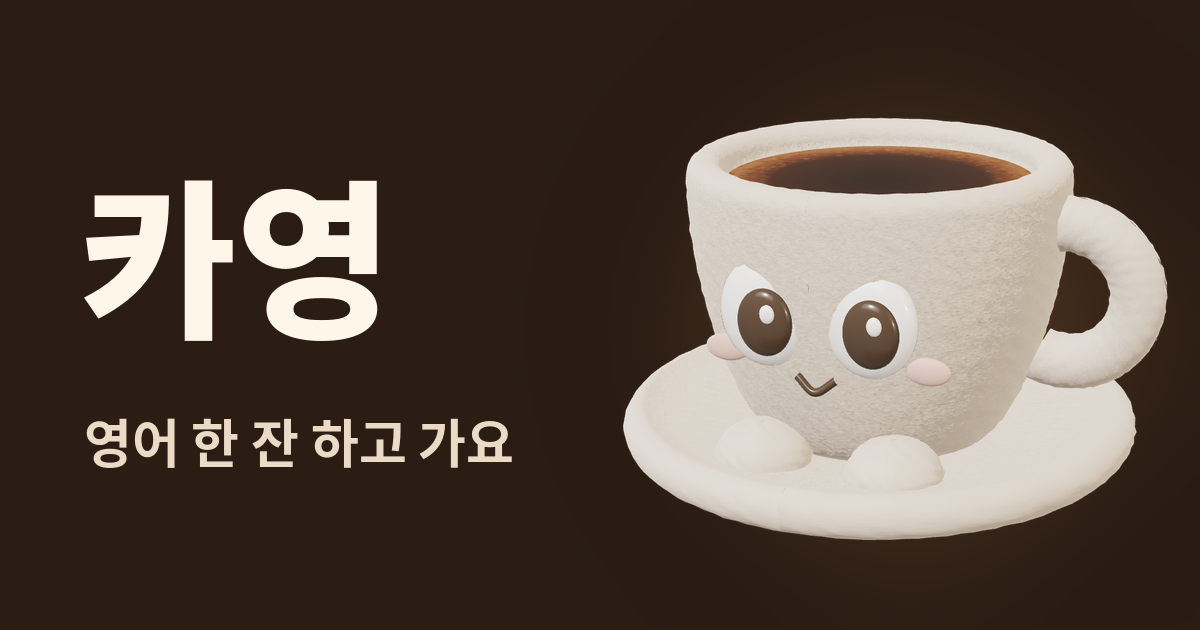
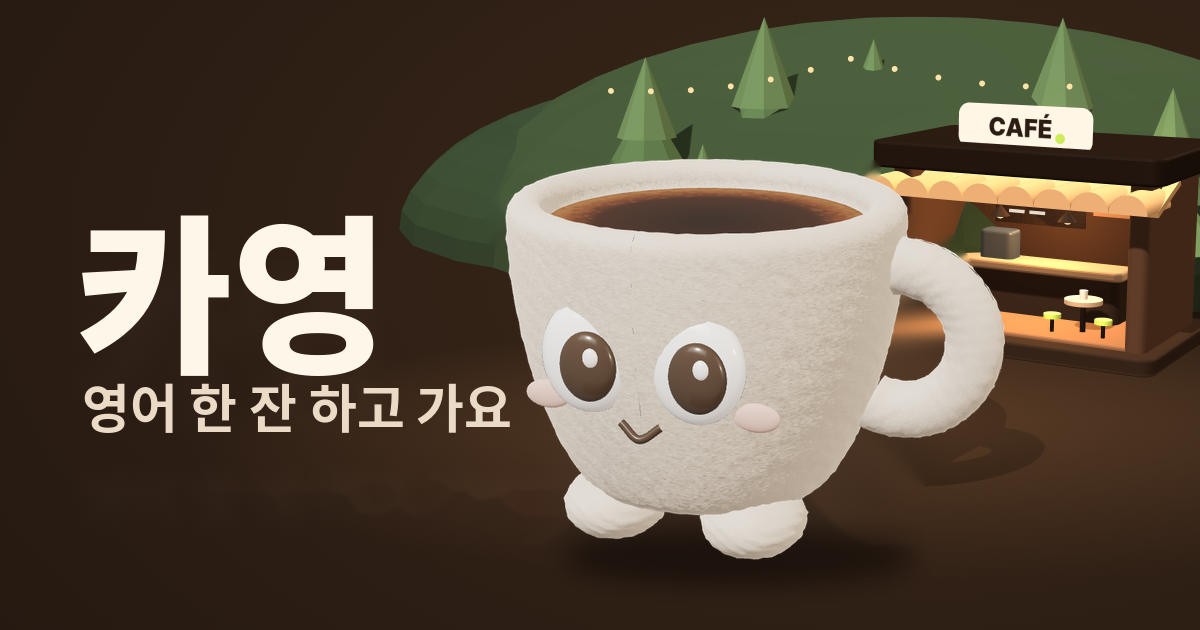
카영 공유 이미지: 자연·카페 배경에 새 캐릭터, 제목 간격 정리
Claude-Session: https://claude.ai/code/session_01PMfggq8PzajLUV5htKnLMb

diff --git a/docs/cafe/play/index.html b/docs/cafe/play/index.html
@@ -10,7 +10,7 @@
 <meta property="og:description" content="영어로 주문하고 수다 떠는 3D 카페.">
 <meta property="og:type" content="website">
 <meta property="og:url" content="https://www.cafeinenglish.com/cafe/play/">
-<meta property="og:image" content="https://www.cafeinenglish.com/cafe/play/og-cafe.png?v=11">
+<meta property="og:image" content="https://www.cafeinenglish.com/cafe/play/og-cafe.png?v=12">
 <meta property="og:image:width" content="1200">
 <meta property="og:image:height" content="630">
 <meta name="twitter:card" content="summary_large_image">
